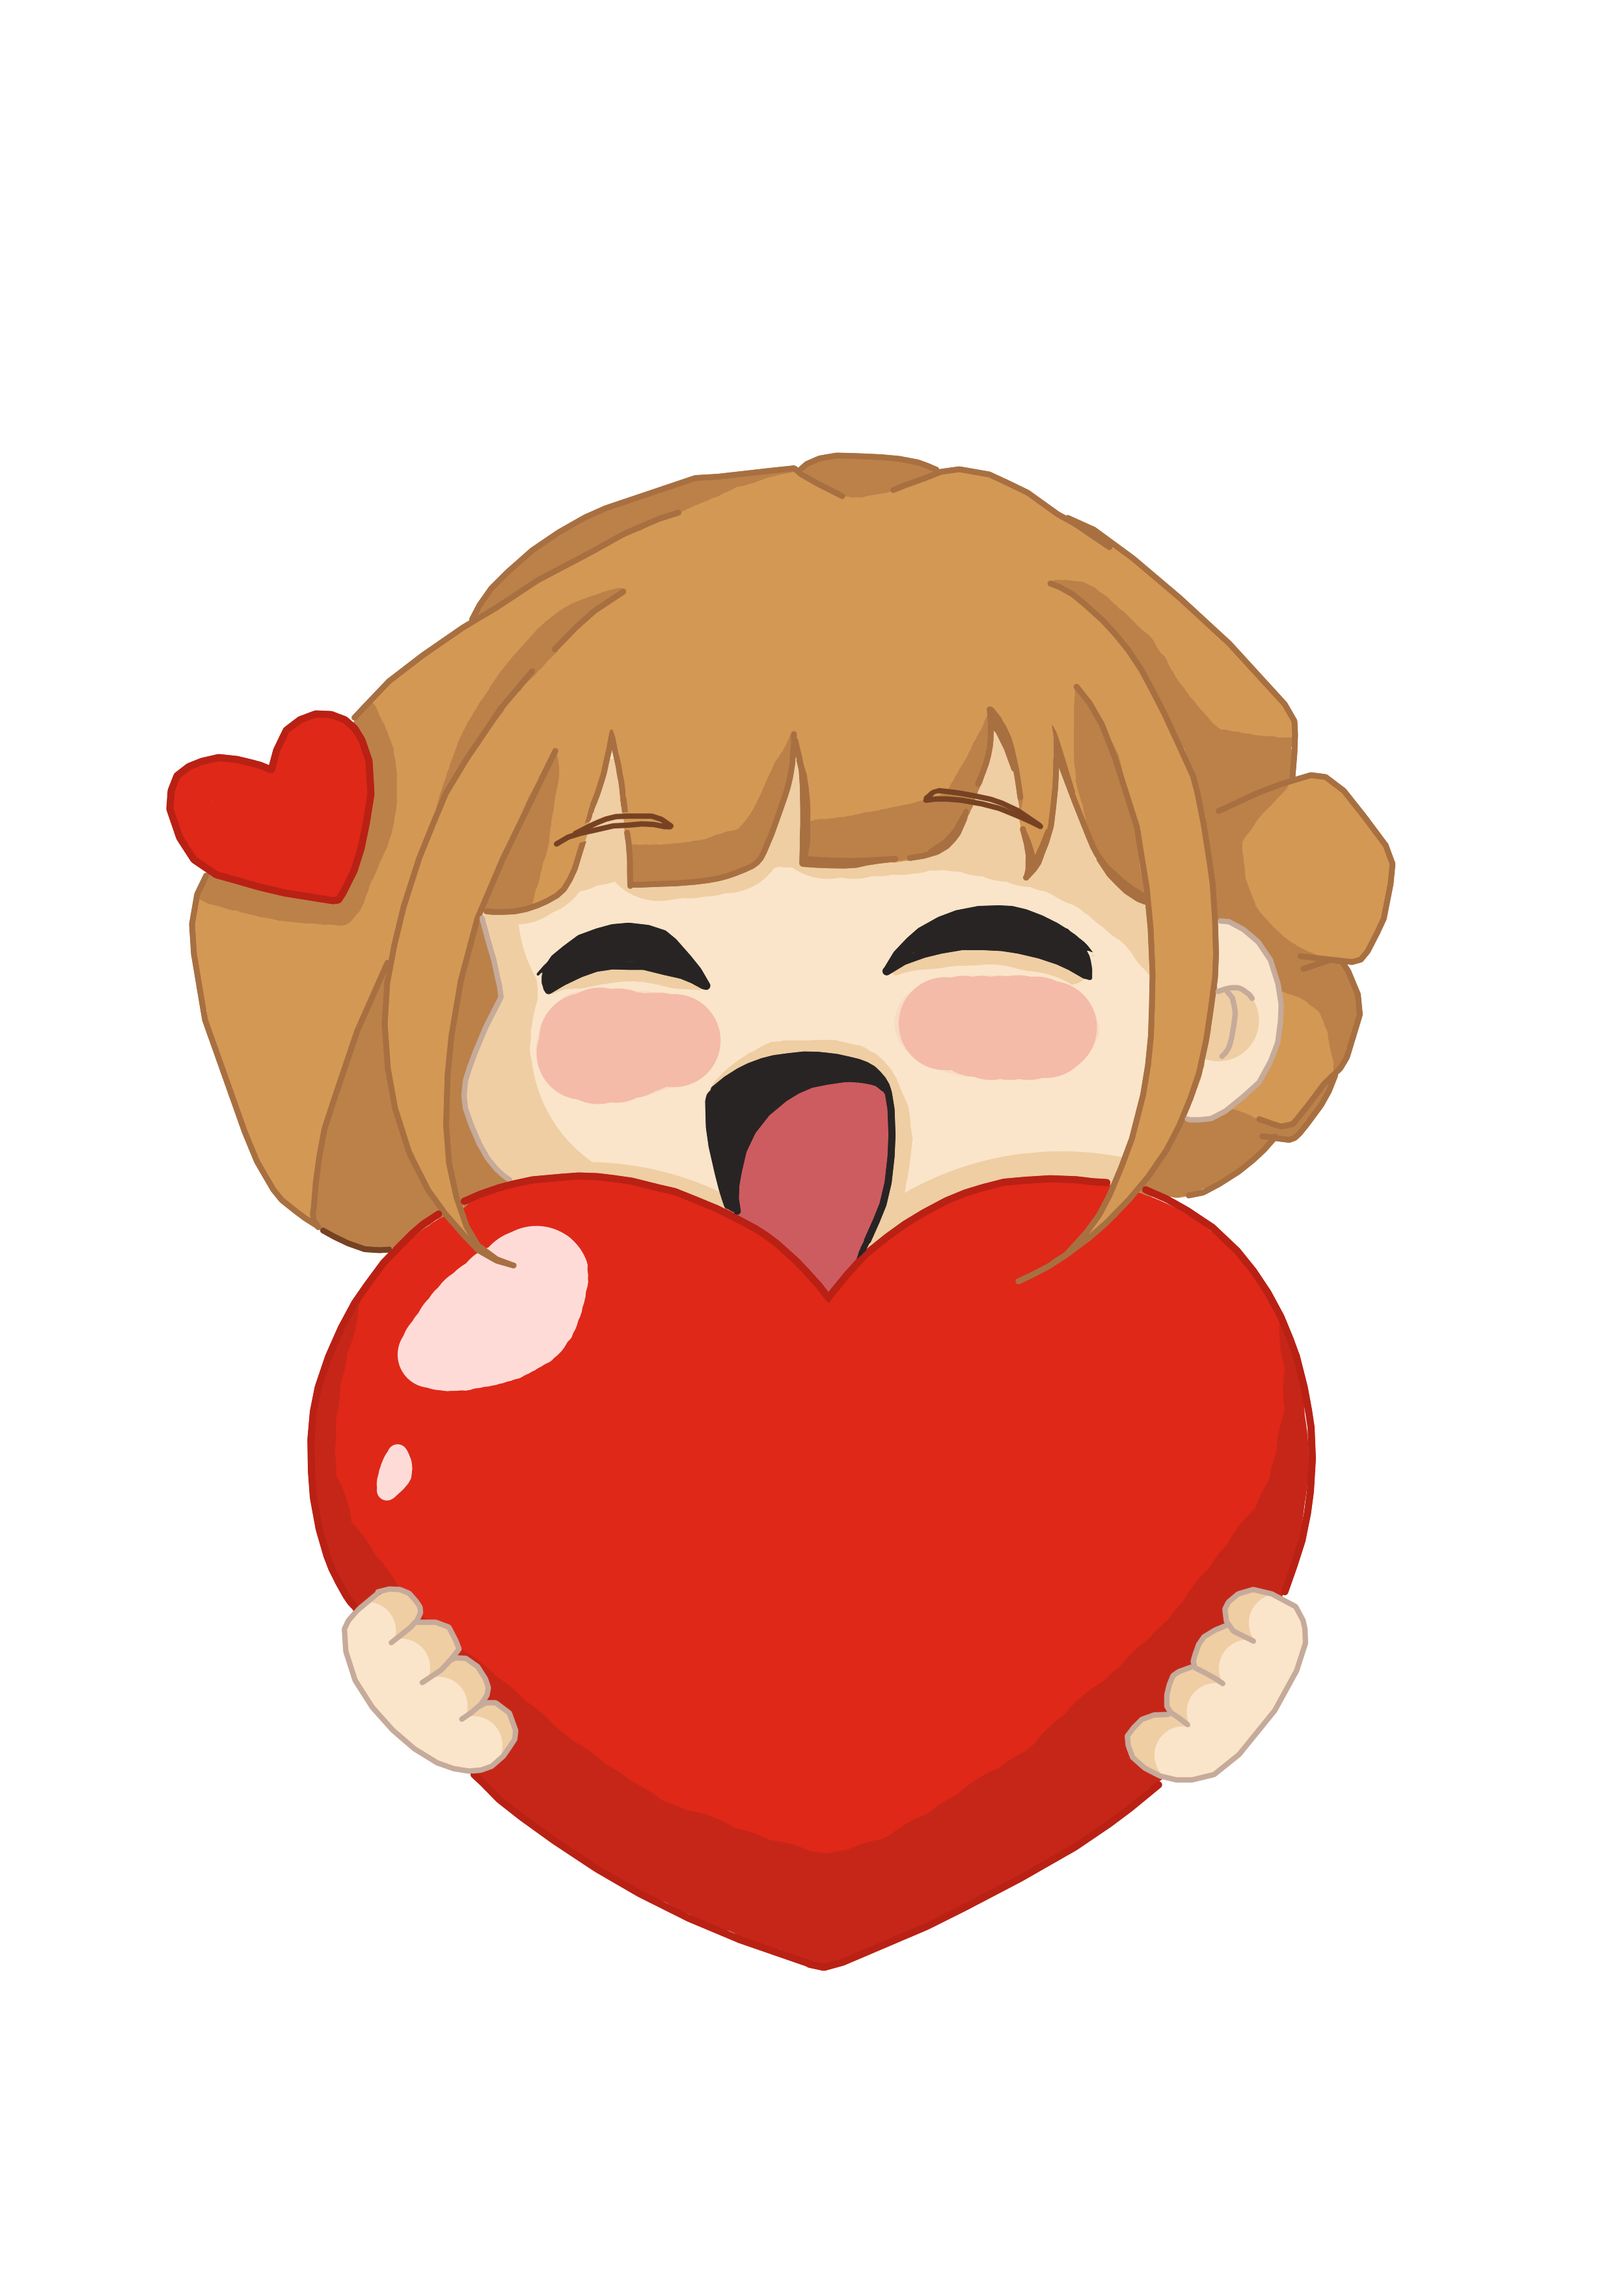
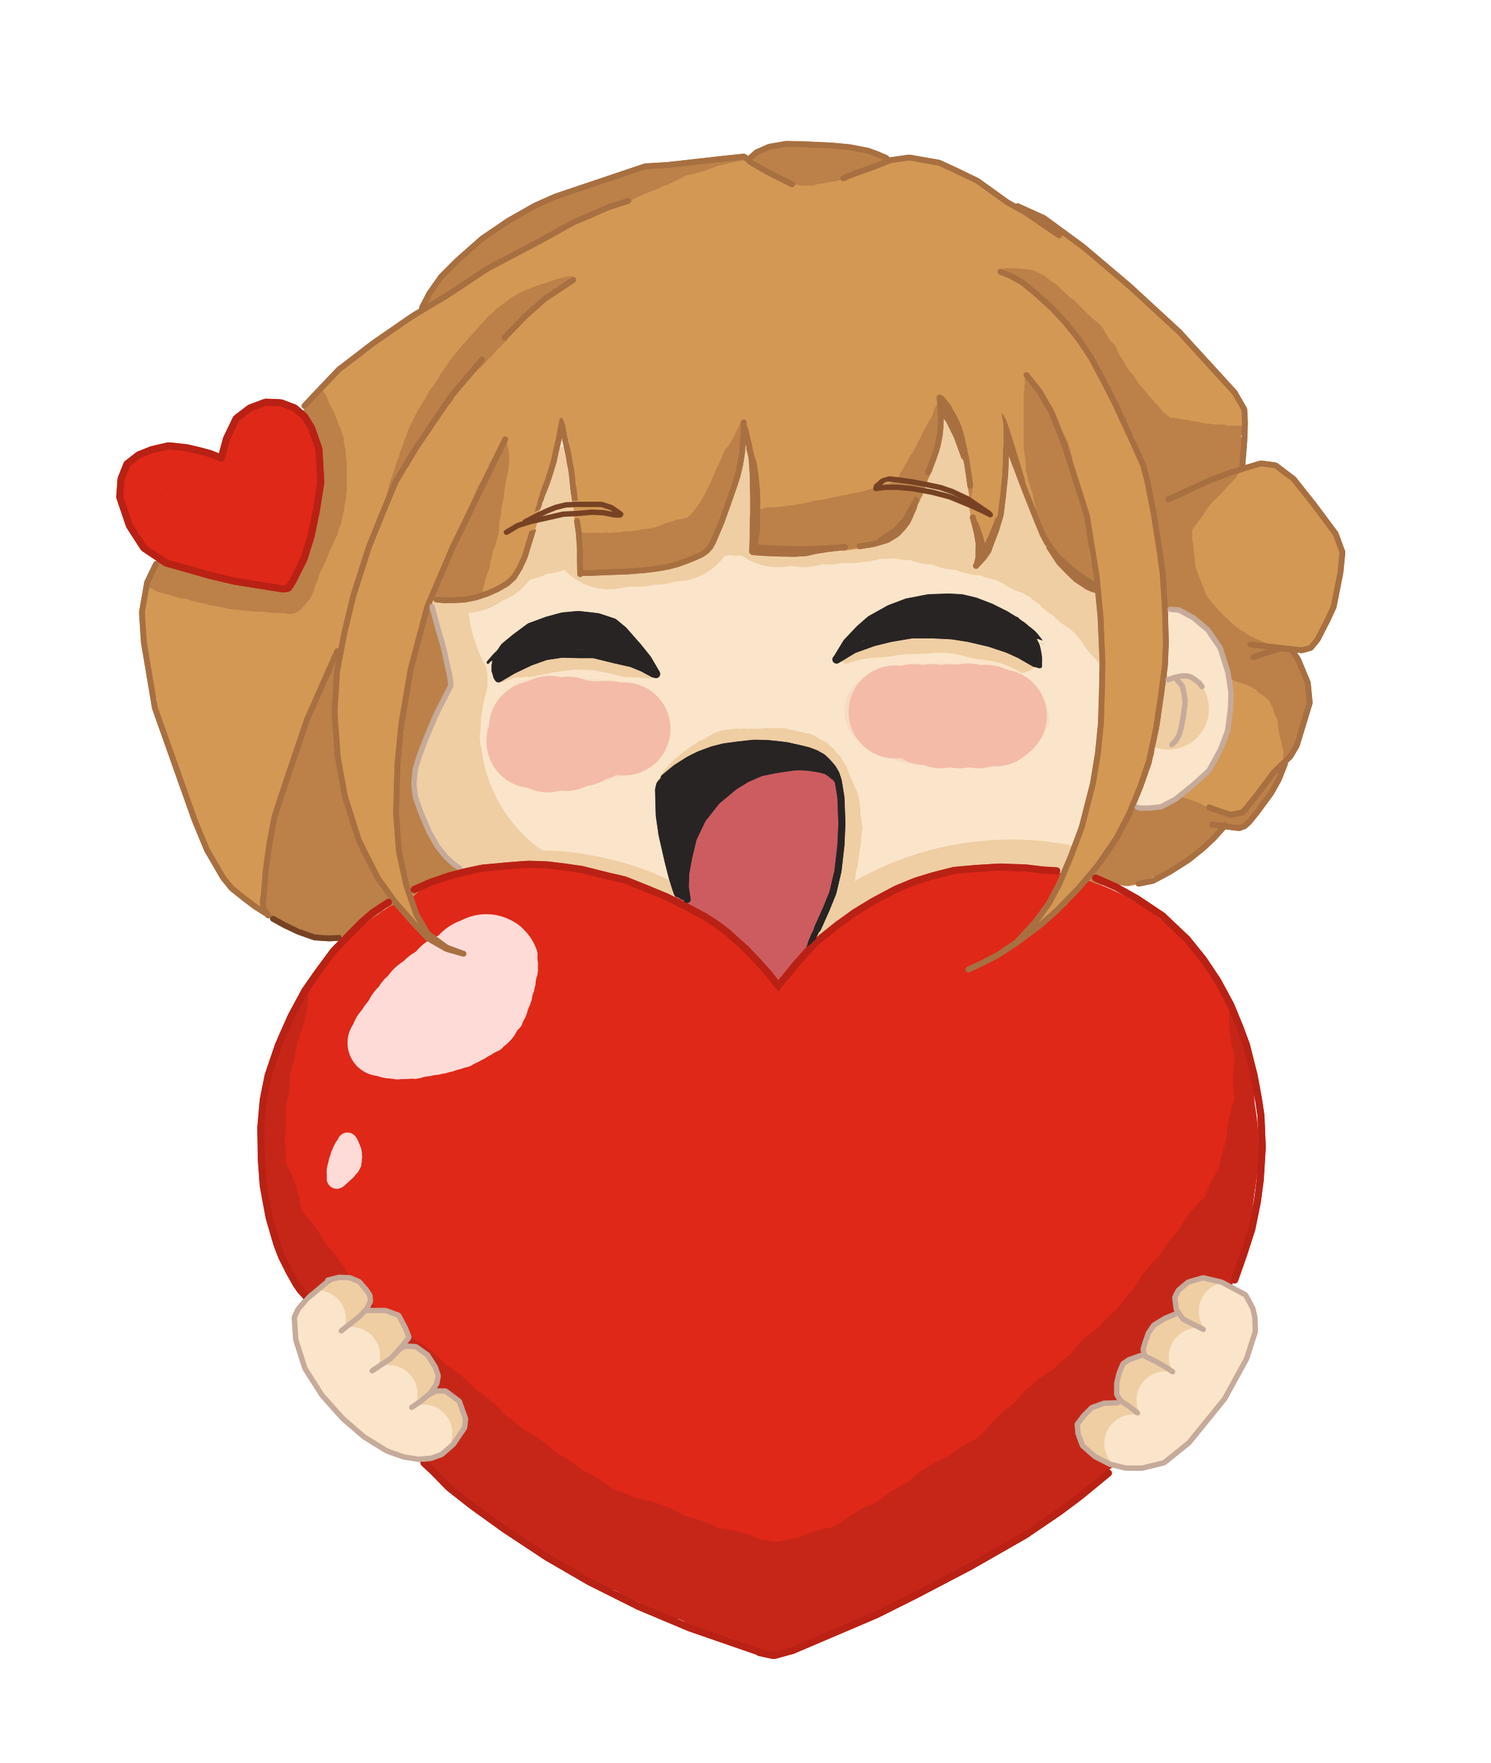
frontend-v7
Adição do avatar interativo com javascript na página "contato", card de contato ainda sem informações reais escritas

Changed region(s): [[0.062, 0.062, 0.8987, 0.9612], [0.124, 0.4341, 0.1859, 0.5271]]

diff --git a/front-end/css/style.css b/front-end/css/style.css
@@ -207,15 +207,17 @@ a:hover{
 .card-integrante:hover .emote{
     opacity: 0.8;
     transform: translateX(-50%) translateY(0) scale(1);
+    transition: 0.4s ease;
 }
 
 /* CARD CONTATO */
 .contato{
     display: flex;
-    justify-content: left;
-    text-align: center;
-    gap: 200px;
+    justify-content: center;
+    align-items: center;
+    gap: 80px;
     flex-wrap: wrap;
+    margin-top: 20px;
 }
 .card-contato{
     width: 750px;
@@ -224,8 +226,7 @@ a:hover{
     background-color: rgba(15,15,20,0.7);
     border: 1px solid rgba(255,255,255,0.08);
     backdrop-filter: blur(10px);
-    margin-top: 130px;
-    margin-left: 230px;
+    transition: 0.3s;
 }
 .card-contato h2{
     margin-top: 20px;
@@ -234,23 +235,22 @@ a:hover{
     line-height: 1.6;
 }
 .card-contato p{
-    display: flex;
-    flex-direction: column;
-    gap: 18px;
+    margin-bottom: 18px;
+    color: #cfcfcf;
+    font-size: 1.05rem;
 }
 .card-contato:hover{
     transform: translateY(-8px);
     box-shadow: 0 0 30px rgba(107,127,215,0.2);
 }
-.avatar-contato{
-    width: 360px;
-    opacity: 0.75;
-    transition: 0.3s;
-    margin-top: 200px;
+.divisao-avatar-ctt img{
+    width: 100%;
+    max-width: 550px;
+    transition: 0.3s ease;
+    opacity: 0.85;
 }
-.avatar-contato img:hover{
-    transform: translateY(-6px);
-    opacity: 1;
+.divisao-avatar-ctt img:hover{
+    transform: scale(1.03);
 }
 
 /* FAQ CARDS CLICAVEIS */

diff --git a/front-end/pages/contato.html b/front-end/pages/contato.html
@@ -1,8 +1,8 @@
-<!DOCTYPE <html>
+<!DOCTYPE html>
 <html lang="pt-br">
 <head>
     <meta charset="UTF-8">
-    <meta name="viewport" content="widht=device-widht, initial-scale=1.0">
+    <meta name="viewport" content="width=device-width, initial-scale=1.0">
     <title> CONTATO </title>
     <link rel="stylesheet" href="../css/style.css">
     <link rel="preconnect" href="https://fonts.googleapis.com">
@@ -32,10 +32,12 @@
                 <p> Email: exemplo@email.com </p>
                 <p> Email: exemplo@email.com </p>
             </div>
-            <div class="avatar-contato">
-                <img src="" alt="Avatar">
+            <div class="divisao-avatar-ctt">
+                <img src="../img/phone first.png" 
+                alt="avatar"
+                id="avatar-contato">
             </div>
         </section>
     </main>
-    <script src="script.js"></script>
+    <script src="../javascript/script.js"></script>
 </body>

diff --git a/front-end/pages/about.html b/front-end/pages/about.html
@@ -1,8 +1,8 @@
-<!DOCTYPE <html>
+<!DOCTYPE html>
 <html lang="pt-br">
 <head>
     <meta charset="UTF-8">
-    <meta name="viewport" content="widht=device-widht, initial-scale=1.0">
+    <meta name="viewport" content="width=device-width, initial-scale=1.0">
     <title> CONHEÇA MAIS </title>
     <link rel="stylesheet" href="../css/style.css">
     <link rel="preconnect" href="https://fonts.googleapis.com">
@@ -37,5 +37,5 @@
         <p>Iste delectus nulla numquam repudiandae mollitia facere quaerat ullam consequatur asperiores at.</p>
 
     </main>
-    <script src="script.js"></script>
+    <script src="../javascript/script.js"></script>
 </body>

diff --git a/front-end/pages/integrantes.html b/front-end/pages/integrantes.html
@@ -1,8 +1,8 @@
-<!DOCTYPE <html>
+<!DOCTYPE html>
 <html lang="pt-br">
 <head>
     <meta charset="UTF-8">
-    <meta name="viewport" content="widht=device-widht, initial-scale=1.0">
+    <meta name="viewport" content="width=device-width, initial-scale=1.0">
     <title> QUEM SOMOS </title>
     <link rel="stylesheet" href="../css/style.css">
     <link rel="preconnect" href="https://fonts.googleapis.com">
@@ -72,5 +72,5 @@
             </div>
         </section>
     </main>
-    <script src="script.js"></script>
+    <script src="../javascript/script.js"></script>
 </body>

diff --git a/front-end/pages/faq.html b/front-end/pages/faq.html
@@ -1,8 +1,8 @@
-<!DOCTYPE <html>
+<!DOCTYPE html>
 <html lang="pt-br">
 <head>
     <meta charset="UTF-8">
-    <meta name="viewport" content="widht=device-widht, initial-scale=1.0">
+    <meta name="viewport" content="width=device-width, initial-scale=1.0">
     <title> FAQ </title>
     <link rel="stylesheet" href="../css/style.css">
     <link rel="preconnect" href="https://fonts.googleapis.com">
@@ -64,5 +64,5 @@
         </section>
 
     </main>
-    <script src="script.js"></script>
+    <script src="../javascript/script.js"></script>
 </body>

diff --git a/front-end/index.html b/front-end/index.html
@@ -1,8 +1,8 @@
-<!DOCTYPE <html>
+<!DOCTYPE html>
 <html lang="pt-br">
 <head>
     <meta charset="UTF-8">
-    <meta name="viewport" content="widht=device-widht, initial-scale=1.0">
+    <meta name="viewport" content="width=device-width, initial-scale=1.0">
     <title> ÍNICIO </title>
     <link rel="stylesheet" href="css/style.css">
     <link rel="preconnect" href="https://fonts.googleapis.com">
@@ -40,5 +40,5 @@
         </div>
 
     </main>
-    <script src="script.js"></script>
+    <script src="javascript/script.js"></script>
 </body>

diff --git a/front-end/javascript/script.js b/front-end/javascript/script.js
@@ -1,0 +1,11 @@
+/* AVATAR CONTATO */
+
+const avatar = document.querySelector("#avatar-contato")
+
+avatar.addEventListener("mouseenter", () => {
+    avatar.src = "../img/phone 2nd.png";
+});
+
+avatar.addEventListener("mouseleave", () => {
+    avatar.src = "../img/phone first.png";
+});
